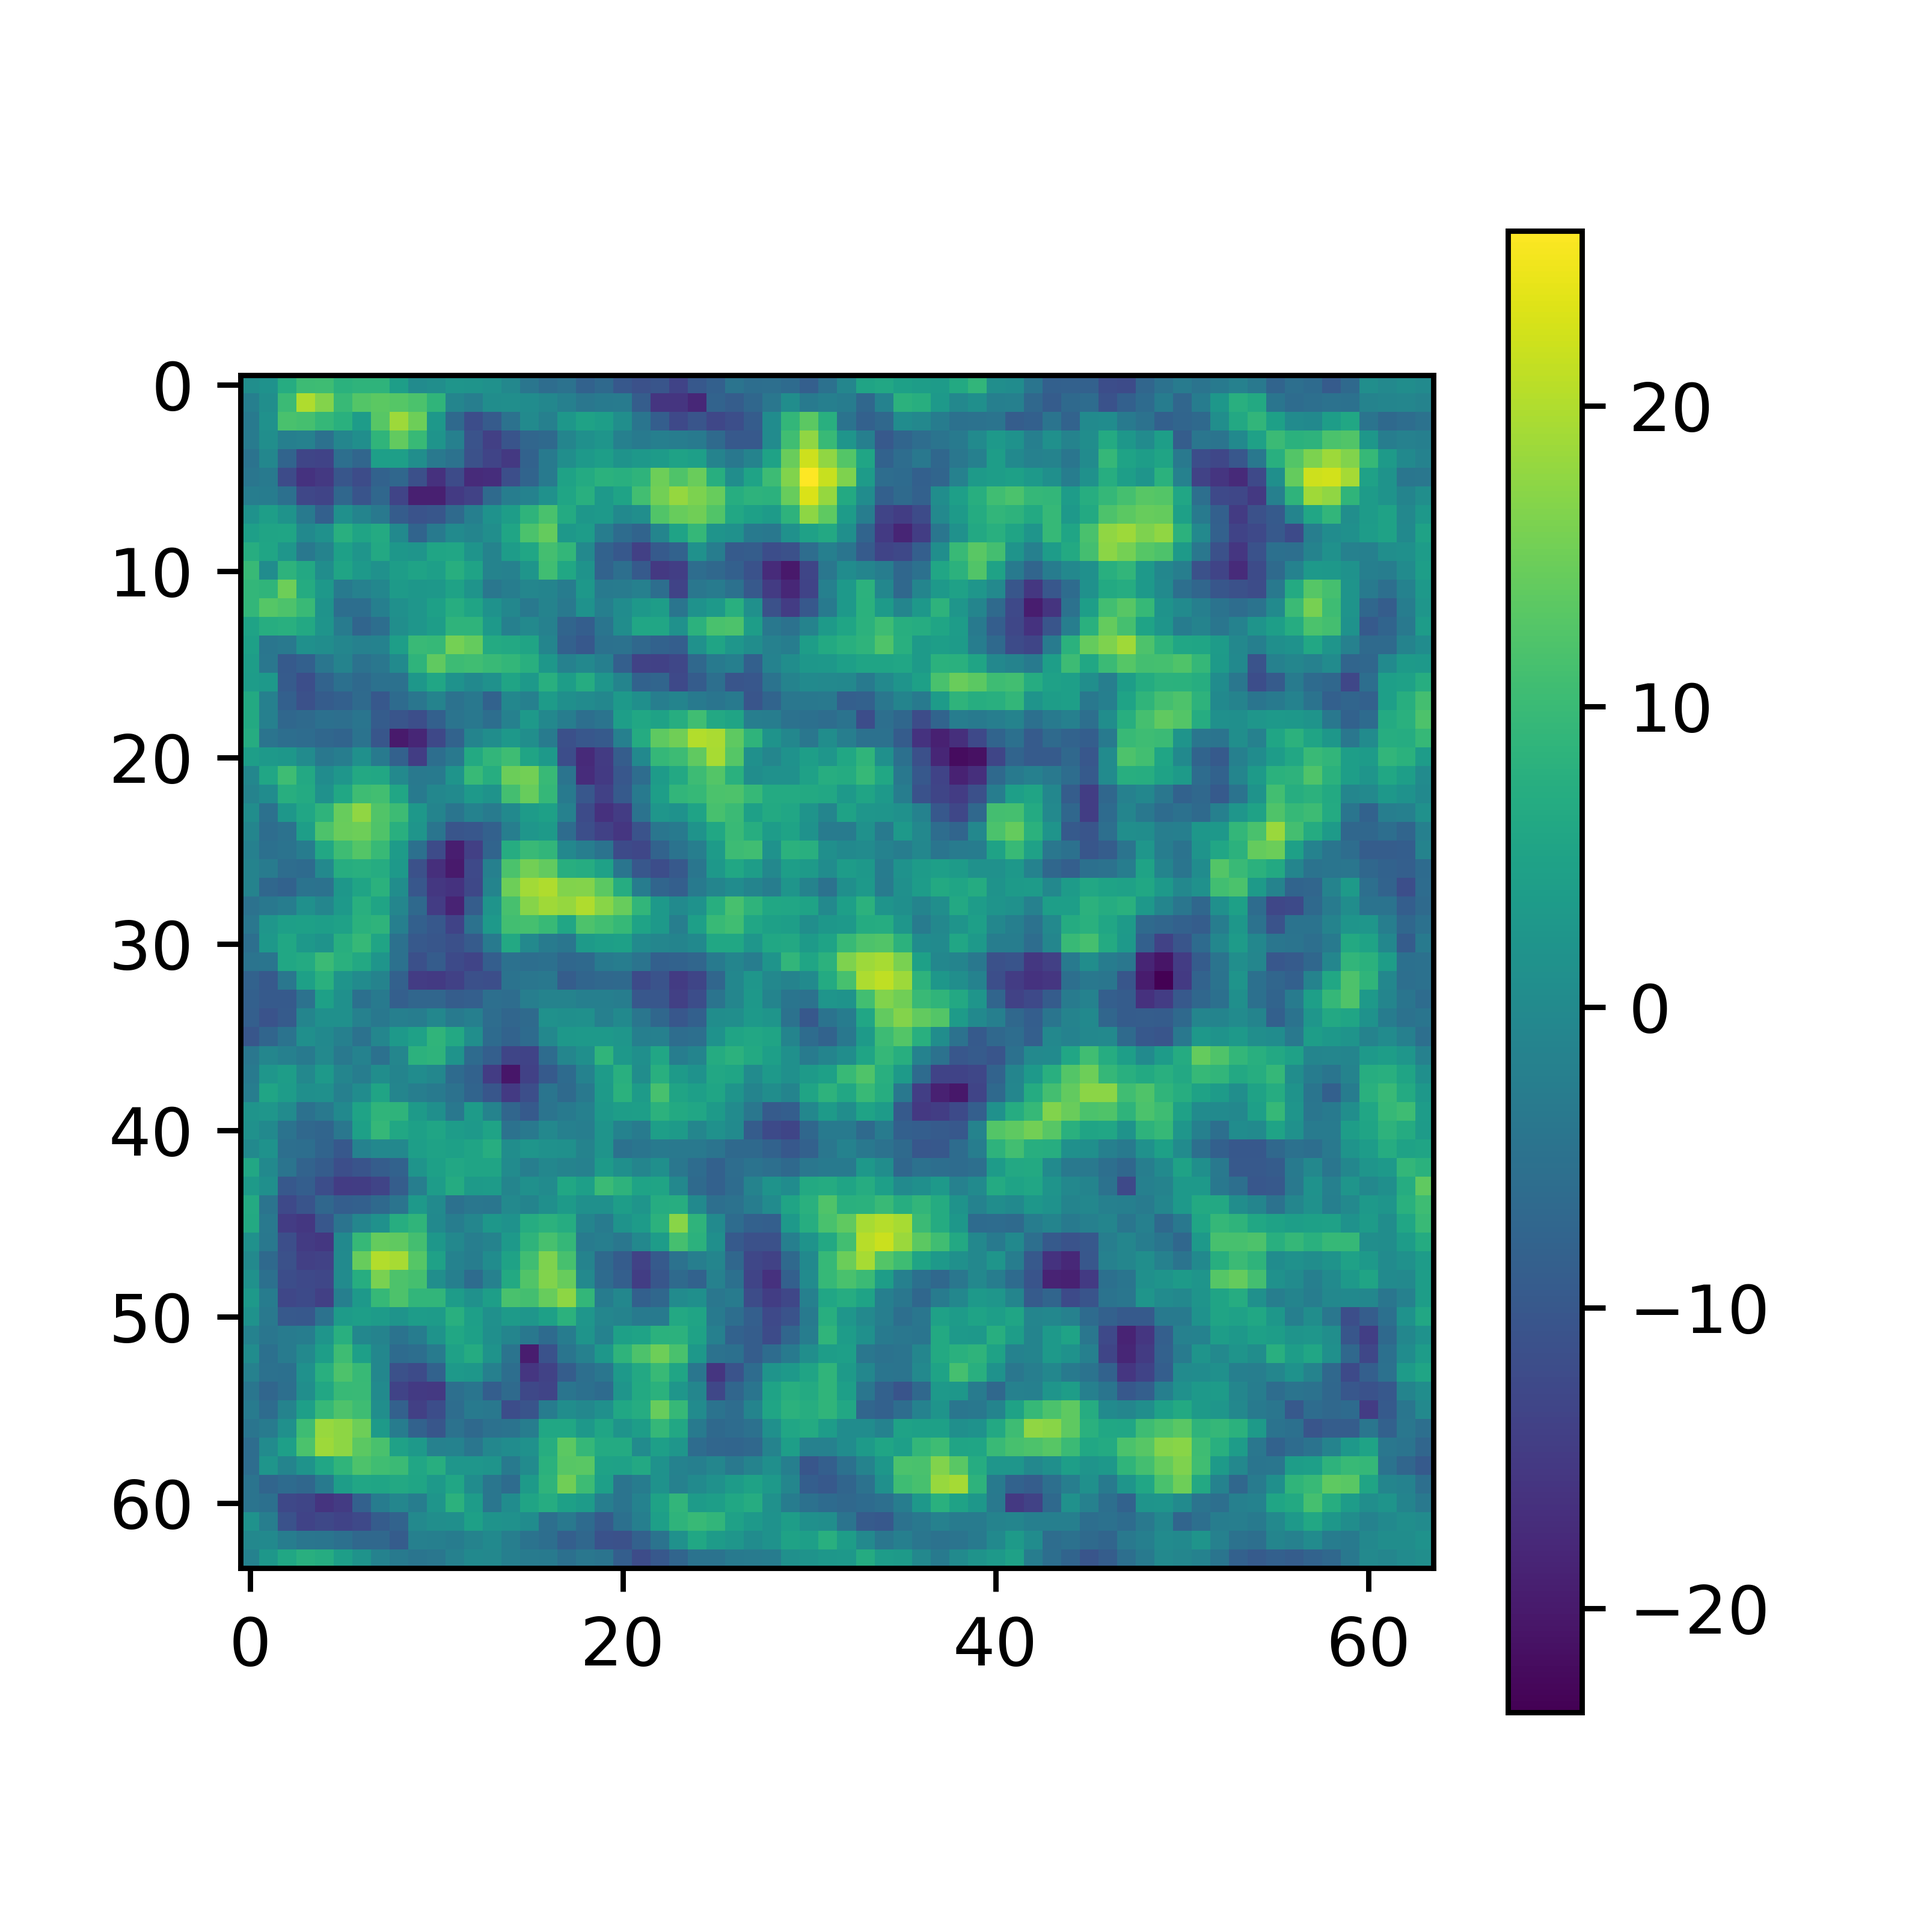
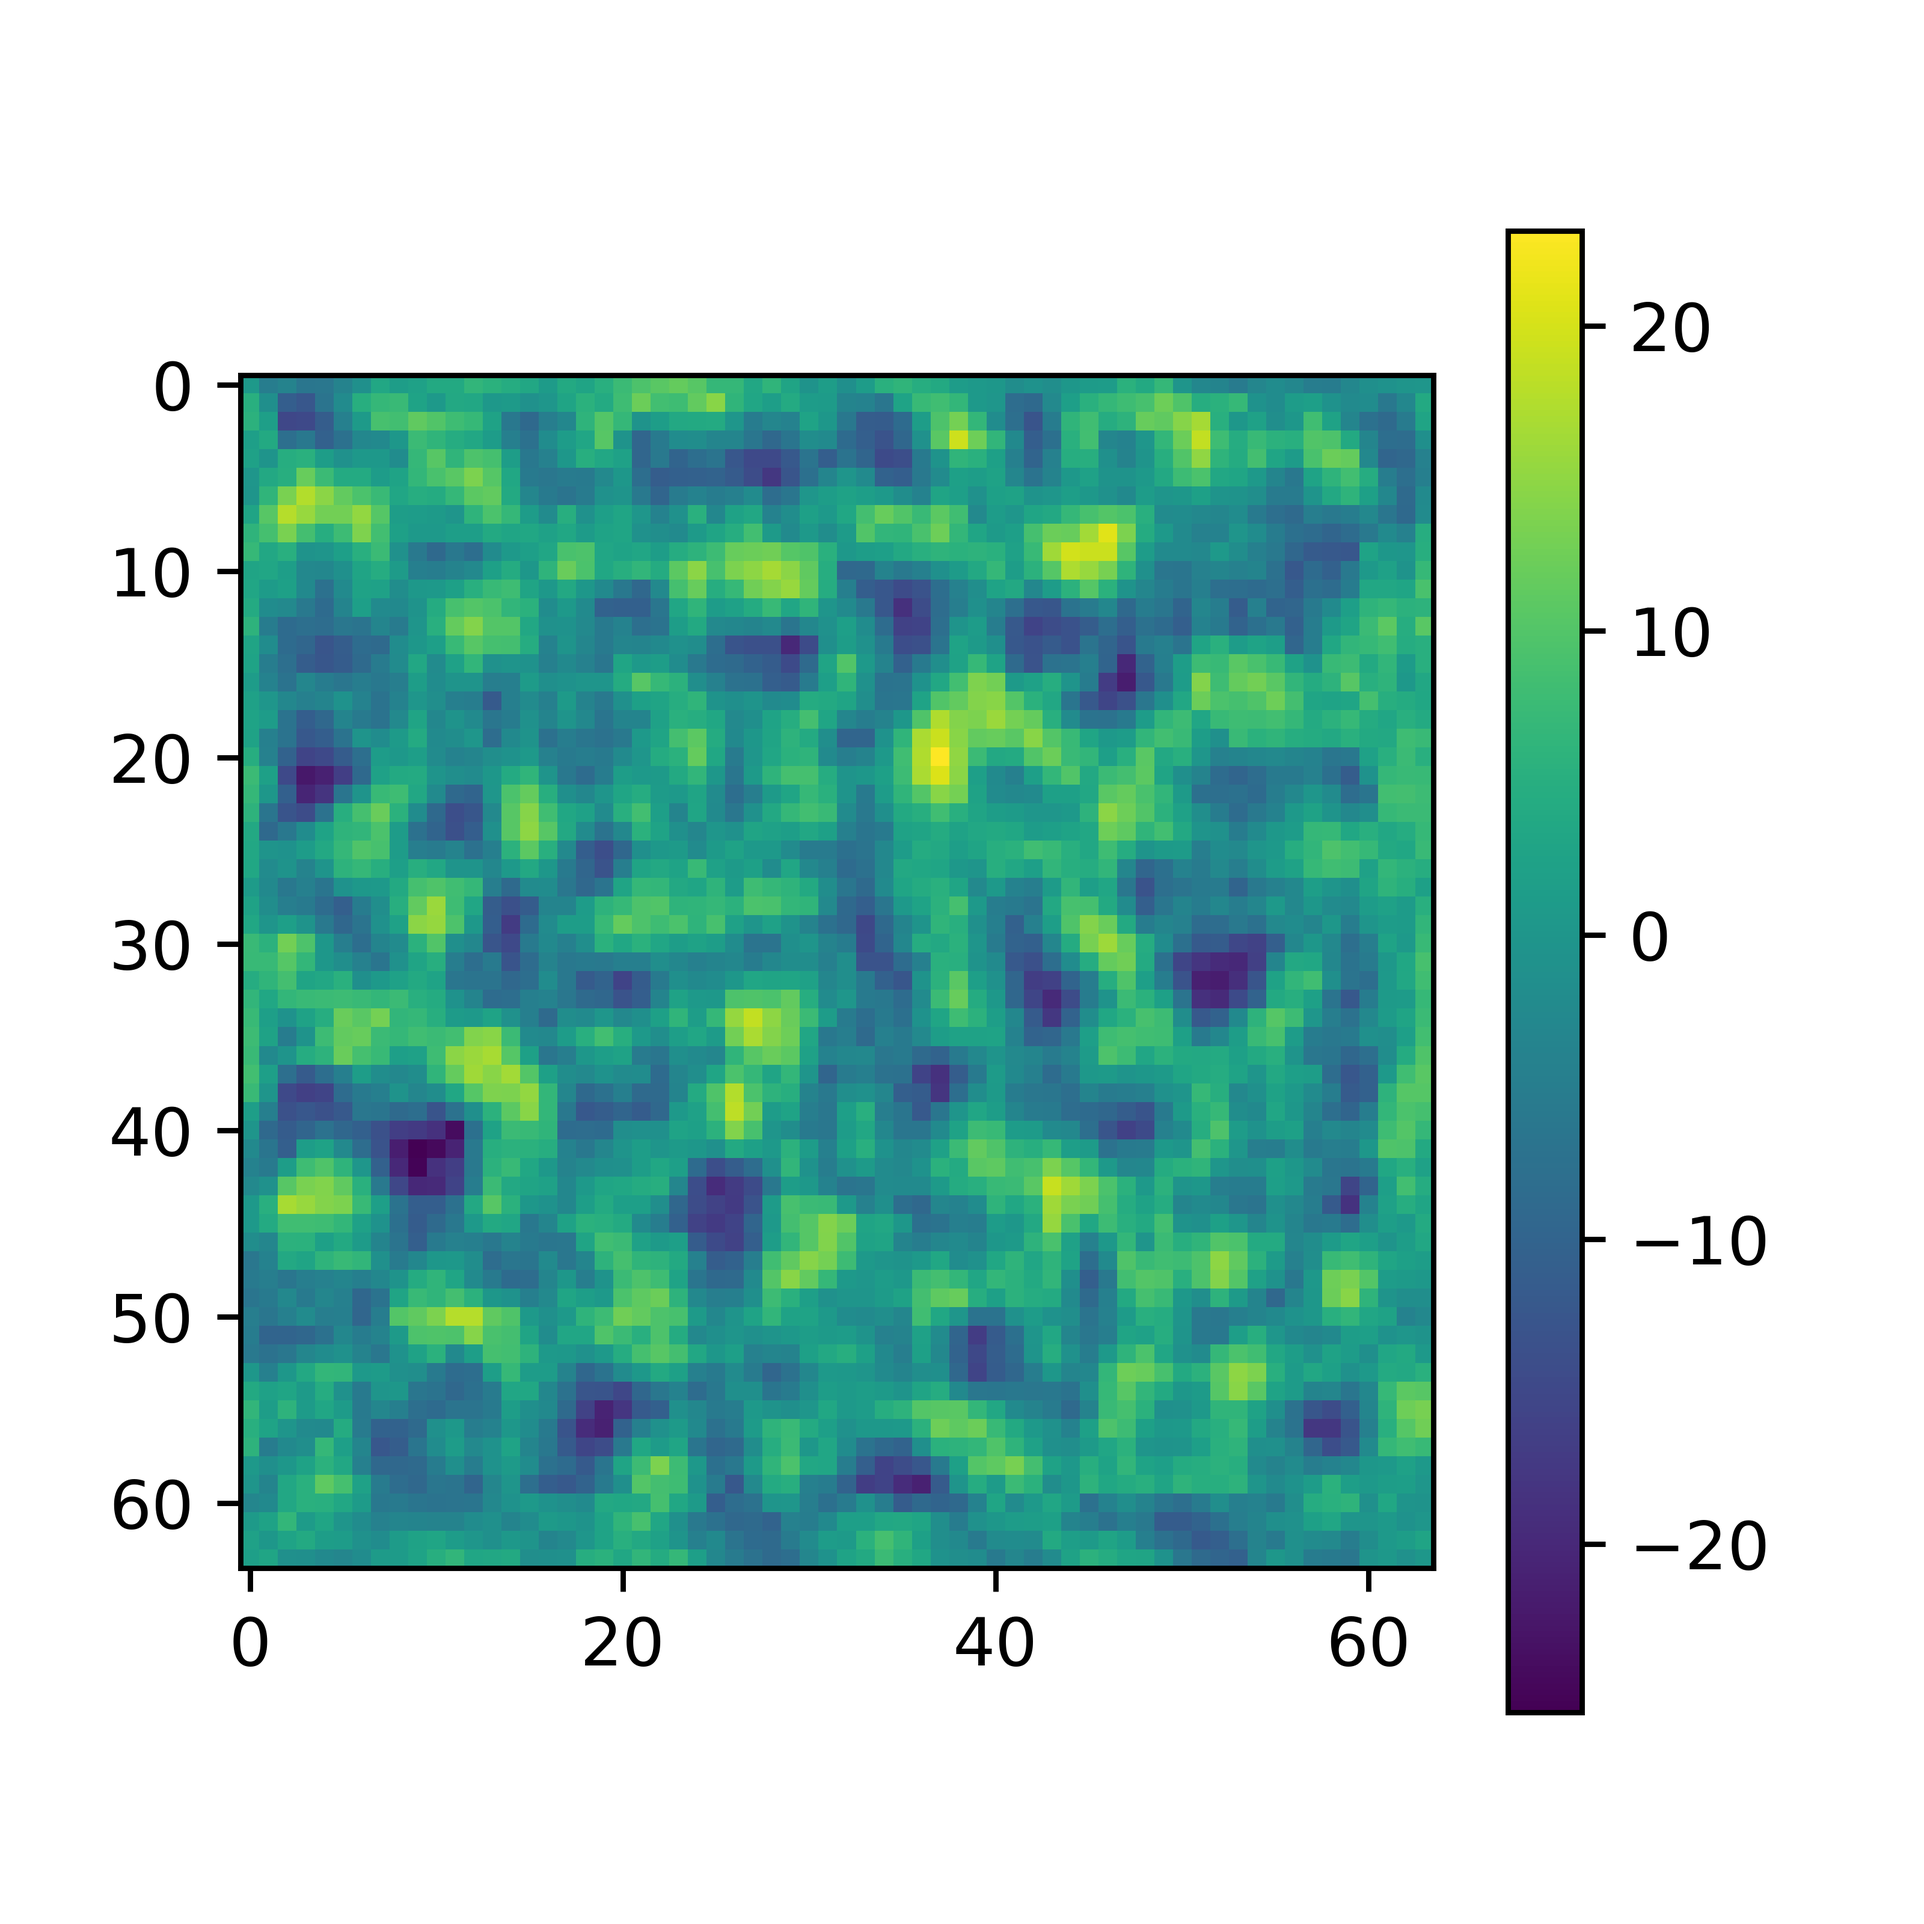
New result on cumulative P(r)

diff --git a/1stTry.py b/1stTry.py
@@ -66,10 +66,10 @@ def find_local_ext(x):
 
 # %%
 
-
 @nb.njit
 def find_distribution(cu, min_loc, max_loc, max_dist, bins=200):
     p = np.zeros(bins)
+    c = np.zeros(bins)
     dr = (max_dist / (bins - 1))
     for i in range(max_loc.shape[0]):
         for j in range(min_loc.shape[0]):
@@ -77,8 +77,10 @@ def find_distribution(cu, min_loc, max_loc, max_dist, bins=200):
                  (max_loc[i, 1] - min_loc[j, 1])**2)**(0.5)
             r = (int)(d / dr)
             p[r] += 1
+            c[r] += (cu[max_loc[i, 0], min_loc[j, 1]] * cu[max_loc[i, 0], min_loc[j, 1]])
     p /= (sum(p) * dr)
-    return p
+    c /= (sum(c) * dr)
+    return np.cumsum(p), np.cumsum(c)
 
 # %%
 
@@ -141,10 +143,10 @@ def do_monte_carlo(temp, N):
 
 
 # %%
-temp = [0.05, 0.2, 0.6, 0.9, 1.1, 1.5]
-N = 32
-ensemble = 1000
-bins = 500
+temp = [0.1, 0.89, 1.5]
+N = 64
+ensemble = 500
+bins = 200
 P_r = []
 C_r = []
 
@@ -156,15 +158,16 @@ for i in range(len(temp)):
         x = do_monte_carlo(temp[i], N)
         cu = get_curl(x)
         maxima, minima, max_cu, min_cu = find_local_ext(cu)
-        p += find_distribution(cu, minima, maxima,
+        pp, cc = find_distribution(cu, minima, maxima,
                                ((N**2) + (N**2))**(0.5), bins)
-        c += find_correlation(cu, ((N**2) + (N**2))**(0.5), bins)
-        # if(e == 1):
-        #     plot_heatmap(x, cu, temp[i], f'mix_{temp[i]}_{N}')
-        #     plot_heatmap(x, max_cu, temp[i], f'maxima_{temp[i]}_{N}', False, True)
-        #     plot_heatmap(x, min_cu, temp[i], f'minima_{temp[i]}_{N}', False, True)
-        #     plot_heatmap(x, cu, temp[i], f'vec_{temp[i]}_{N}', False)
-        #     plot_heatmap(x, cu, temp[i], f'curl_{temp[i]}_{N}', False, True)
+        p += pp
+        c += cc
+        if(e == 1):
+             plot_heatmap(x, cu, temp[i], f'mix_{temp[i]}_{N}')
+             plot_heatmap(x, max_cu, temp[i], f'maxima_{temp[i]}_{N}', False, True)
+             plot_heatmap(x, min_cu, temp[i], f'minima_{temp[i]}_{N}', False, True)
+             plot_heatmap(x, cu, temp[i], f'vec_{temp[i]}_{N}', False)
+             plot_heatmap(x, cu, temp[i], f'curl_{temp[i]}_{N}', False, True)
 
     p /= ensemble
     c /= ensemble
